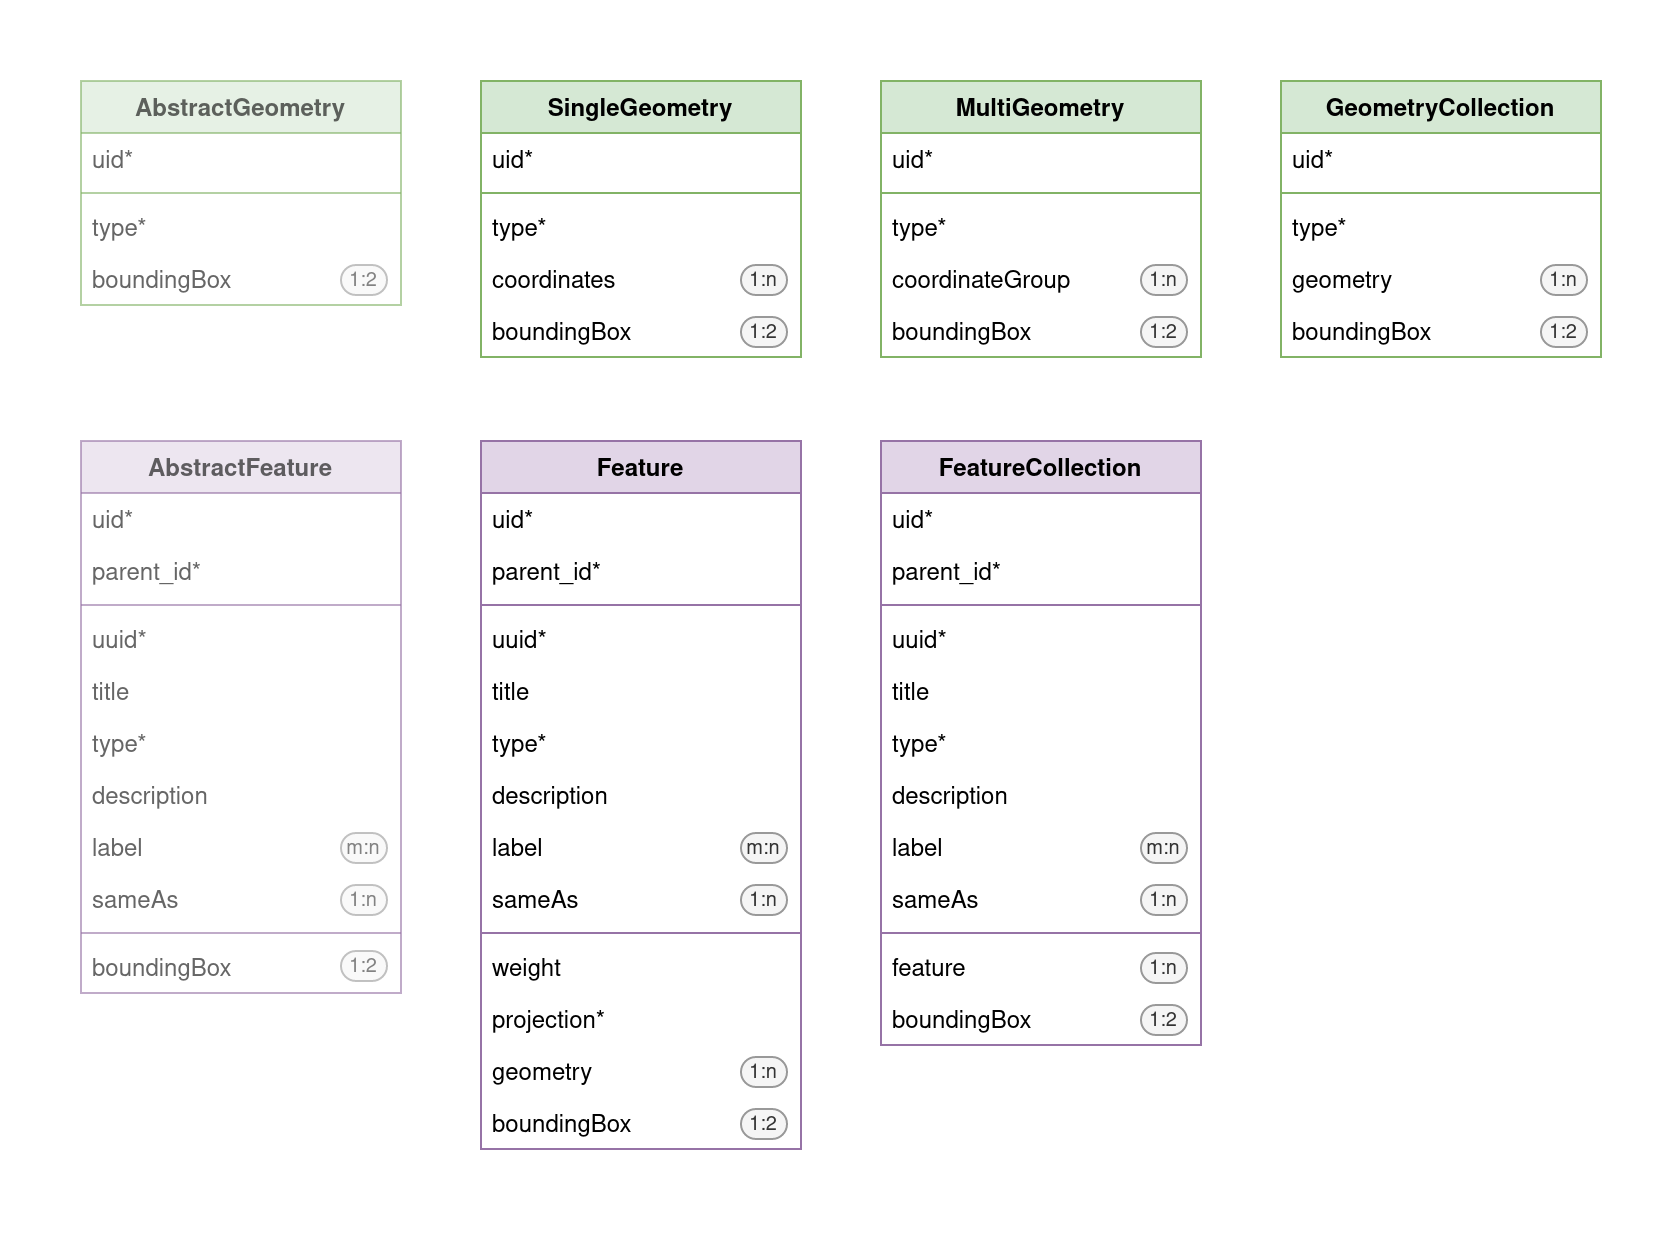
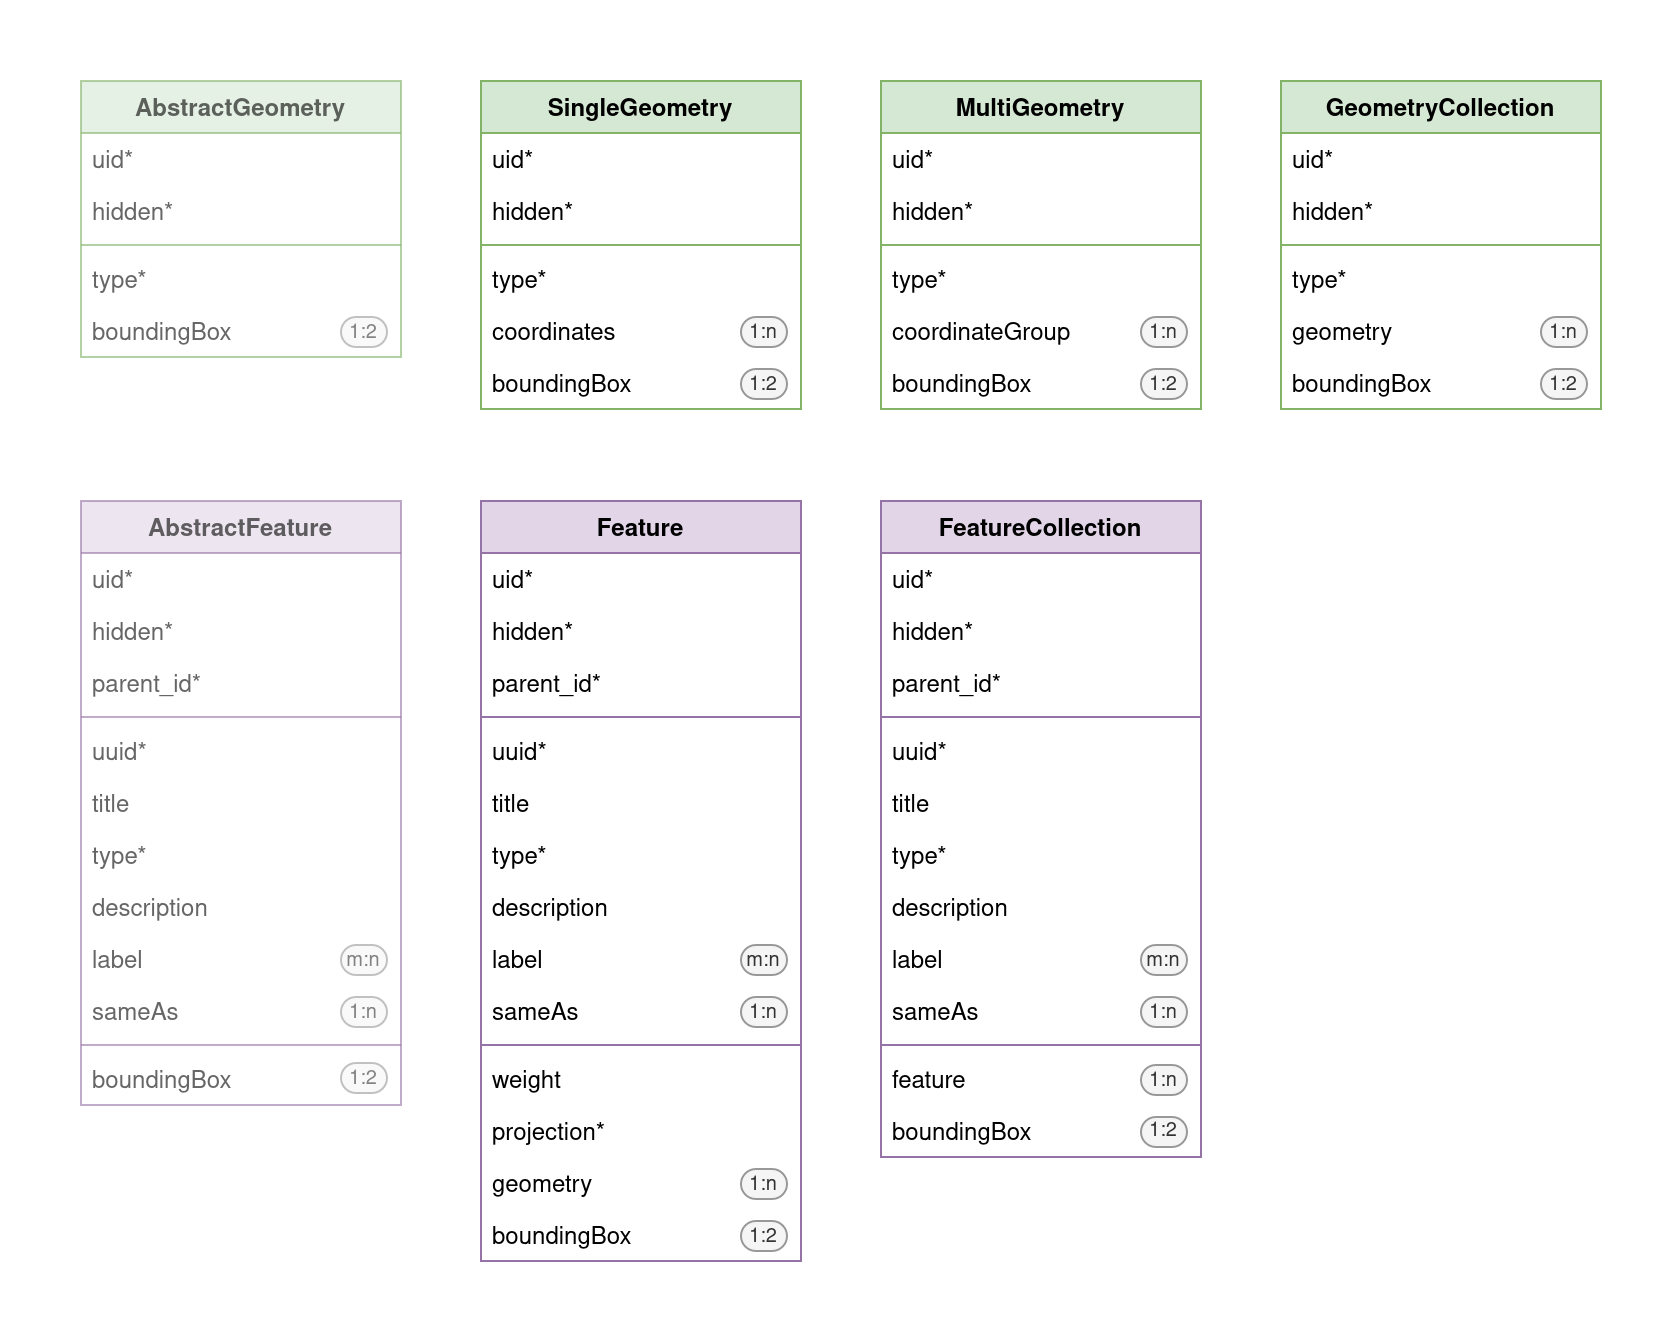
Add property 'hidden' to model files

diff --git a/Classes/Domain/Model/CoordinateGroup.php b/Classes/Domain/Model/CoordinateGroup.php
@@ -12,6 +12,7 @@ namespace Digicademy\DAMap\Domain\Model;
 
 use TYPO3\CMS\Extbase\Annotation\ORM\Lazy;
 use TYPO3\CMS\Extbase\Annotation\ORM\Cascade;
+use TYPO3\CMS\Extbase\Annotation\Validate;
 use TYPO3\CMS\Extbase\DomainObject\AbstractEntity;
 use TYPO3\CMS\Extbase\Persistence\ObjectStorage;
 
@@ -20,6 +21,16 @@ use TYPO3\CMS\Extbase\Persistence\ObjectStorage;
  */
 class CoordinateGroup extends AbstractEntity
 {
+    /**
+     * Whether the record should be visisible or not
+     * 
+     * @var bool
+     */
+    #[Validate([
+        'validator' => 'Boolean',
+    ])]
+    protected bool $hidden = false;
+
     /**
      * List of coordinates in this group
      * 
@@ -47,6 +58,26 @@ class CoordinateGroup extends AbstractEntity
     public function initializeObject(): void
     {
         $this->coordinates = new ObjectStorage();
+    }
+
+    /**
+     * Get hidden
+     *
+     * @return bool
+     */
+    public function getHidden(): bool
+    {
+        return $this->hidden;
+    }
+
+    /**
+     * Set hidden
+     *
+     * @param bool $hidden
+     */
+    public function setHidden(bool $hidden): void
+    {
+        $this->hidden = $hidden;
     }
 
     /**

diff --git a/Classes/Domain/Model/AbstractFeature.php b/Classes/Domain/Model/AbstractFeature.php
@@ -24,6 +24,16 @@ use TYPO3\CMS\Extbase\Persistence\ObjectStorage;
 class AbstractFeature extends AbstractEntity
 {
     /**
+     * Whether the record should be visisible or not
+     * 
+     * @var bool
+     */
+    #[Validate([
+        'validator' => 'Boolean',
+    ])]
+    protected bool $hidden = false;
+
+    /**
      * Resource that this feature is attached to
      * 
      * @var LazyLoadingProxy|MapResource|Feature
@@ -142,6 +152,26 @@ class AbstractFeature extends AbstractEntity
         $this->label       = new ObjectStorage();
         $this->sameAs      = new ObjectStorage();
         $this->boundingBox = new ObjectStorage();
+    }
+
+    /**
+     * Get hidden
+     *
+     * @return bool
+     */
+    public function getHidden(): bool
+    {
+        return $this->hidden;
+    }
+
+    /**
+     * Set hidden
+     *
+     * @param bool $hidden
+     */
+    public function setHidden(bool $hidden): void
+    {
+        $this->hidden = $hidden;
     }
 
     /**

diff --git a/Classes/Domain/Model/Tiles.php b/Classes/Domain/Model/Tiles.php
@@ -20,6 +20,16 @@ use TYPO3\CMS\Extbase\Persistence\Generic\LazyLoadingProxy;
 class Tiles extends AbstractEntity
 {
     /**
+     * Whether the record should be visisible or not
+     * 
+     * @var bool
+     */
+    #[Validate([
+        'validator' => 'Boolean',
+    ])]
+    protected bool $hidden = false;
+
+    /**
      * Resource that this tile layer is attached to
      * 
      * @var LazyLoadingProxy|MapResource
@@ -64,6 +74,26 @@ class Tiles extends AbstractEntity
         $this->setParentId($parent_id);
         $this->setTitle($title);
         $this->setUri($uri);
+    }
+
+    /**
+     * Get hidden
+     *
+     * @return bool
+     */
+    public function getHidden(): bool
+    {
+        return $this->hidden;
+    }
+
+    /**
+     * Set hidden
+     *
+     * @param bool $hidden
+     */
+    public function setHidden(bool $hidden): void
+    {
+        $this->hidden = $hidden;
     }
 
     /**

diff --git a/Classes/Domain/Model/Tag.php b/Classes/Domain/Model/Tag.php
@@ -24,6 +24,16 @@ use TYPO3\CMS\Extbase\Persistence\ObjectStorage;
 class Tag extends AbstractEntity
 {
     /**
+     * Whether the record should be visisible or not
+     * 
+     * @var bool
+     */
+    #[Validate([
+        'validator' => 'Boolean',
+    ])]
+    protected bool $hidden = false;
+
+    /**
      * Resource that this tag is attached to
      * 
      * @var LazyLoadingProxy|MapResource
@@ -132,6 +142,26 @@ class Tag extends AbstractEntity
     {
         $this->sameAs           = new ObjectStorage();
         $this->asLabelOfFeature = new ObjectStorage();
+    }
+
+    /**
+     * Get hidden
+     *
+     * @return bool
+     */
+    public function getHidden(): bool
+    {
+        return $this->hidden;
+    }
+
+    /**
+     * Set hidden
+     *
+     * @param bool $hidden
+     */
+    public function setHidden(bool $hidden): void
+    {
+        $this->hidden = $hidden;
     }
 
     /**

diff --git a/Classes/Domain/Model/Coordinates.php b/Classes/Domain/Model/Coordinates.php
@@ -19,6 +19,16 @@ use TYPO3\CMS\Extbase\DomainObject\AbstractEntity;
 class Coordinates extends AbstractEntity
 {
     /**
+     * Whether the record should be visisible or not
+     * 
+     * @var bool
+     */
+    #[Validate([
+        'validator' => 'Boolean',
+    ])]
+    protected bool $hidden = false;
+
+    /**
      * Decimal notation of the longitude with a decimal period (if necessary)
      * 
      * @var string
@@ -59,6 +69,26 @@ class Coordinates extends AbstractEntity
     {
         $this->setLongitude($longitude);
         $this->setLatitude($latitude);
+    }
+
+    /**
+     * Get hidden
+     *
+     * @return bool
+     */
+    public function getHidden(): bool
+    {
+        return $this->hidden;
+    }
+
+    /**
+     * Set hidden
+     *
+     * @param bool $hidden
+     */
+    public function setHidden(bool $hidden): void
+    {
+        $this->hidden = $hidden;
     }
 
     /**

diff --git a/Classes/Domain/Model/MapResource.php b/Classes/Domain/Model/MapResource.php
@@ -22,6 +22,16 @@ use TYPO3\CMS\Extbase\Persistence\ObjectStorage;
 class MapResource extends AbstractEntity
 {
     /**
+     * Whether the record should be visisible or not
+     * 
+     * @var bool
+     */
+    #[Validate([
+        'validator' => 'Boolean',
+    ])]
+    protected bool $hidden = false;
+
+    /**
      * Name of the map
      * 
      * @var string
@@ -132,6 +142,26 @@ class MapResource extends AbstractEntity
         $this->mapTiles = new ObjectStorage();
         $this->feature  = new ObjectStorage();
         $this->tag      = new ObjectStorage();
+    }
+
+    /**
+     * Get hidden
+     *
+     * @return bool
+     */
+    public function getHidden(): bool
+    {
+        return $this->hidden;
+    }
+
+    /**
+     * Set hidden
+     *
+     * @param bool $hidden
+     */
+    public function setHidden(bool $hidden): void
+    {
+        $this->hidden = $hidden;
     }
 
     /**

diff --git a/Classes/Domain/Model/SameAs.php b/Classes/Domain/Model/SameAs.php
@@ -19,6 +19,16 @@ use TYPO3\CMS\Extbase\DomainObject\AbstractEntity;
 class SameAs extends AbstractEntity
 {
     /**
+     * Whether the record should be visisible or not
+     * 
+     * @var bool
+     */
+    #[Validate([
+        'validator' => 'Boolean',
+    ])]
+    protected bool $hidden = false;
+
+    /**
      * External web address to identify an entity across the web
      * 
      * @var string
@@ -37,6 +47,26 @@ class SameAs extends AbstractEntity
     public function __construct(string $uri)
     {
         $this->setUri($uri);
+    }
+
+    /**
+     * Get hidden
+     *
+     * @return bool
+     */
+    public function getHidden(): bool
+    {
+        return $this->hidden;
+    }
+
+    /**
+     * Set hidden
+     *
+     * @param bool $hidden
+     */
+    public function setHidden(bool $hidden): void
+    {
+        $this->hidden = $hidden;
     }
 
     /**

diff --git a/Classes/Domain/Model/AbstractGeometry.php b/Classes/Domain/Model/AbstractGeometry.php
@@ -23,6 +23,16 @@ use TYPO3\CMS\Extbase\Persistence\ObjectStorage;
 class AbstractGeometry extends AbstractEntity
 {
     /**
+     * Whether the record should be visisible or not
+     * 
+     * @var bool
+     */
+    #[Validate([
+        'validator' => 'Boolean',
+    ])]
+    protected bool $hidden = false;
+
+    /**
      * Type of geometry
      * 
      * @var string
@@ -70,6 +80,26 @@ class AbstractGeometry extends AbstractEntity
     public function initializeObject(): void
     {
         $this->boundingBox = new ObjectStorage();
+    }
+
+    /**
+     * Get hidden
+     *
+     * @return bool
+     */
+    public function getHidden(): bool
+    {
+        return $this->hidden;
+    }
+
+    /**
+     * Set hidden
+     *
+     * @param bool $hidden
+     */
+    public function setHidden(bool $hidden): void
+    {
+        $this->hidden = $hidden;
     }
 
     /**
